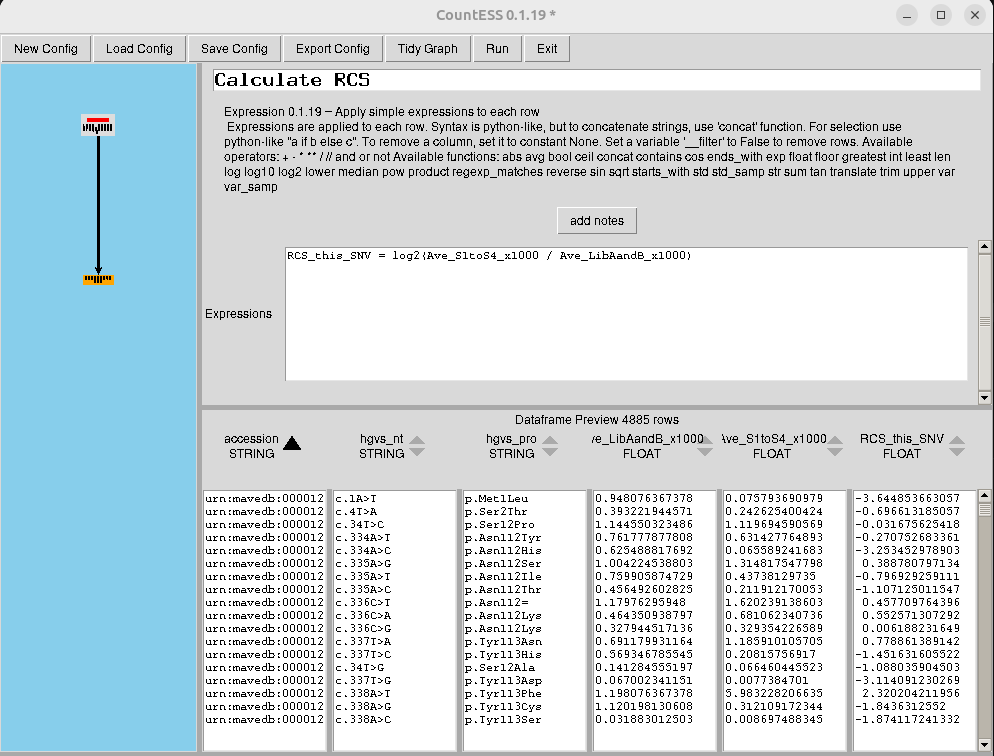
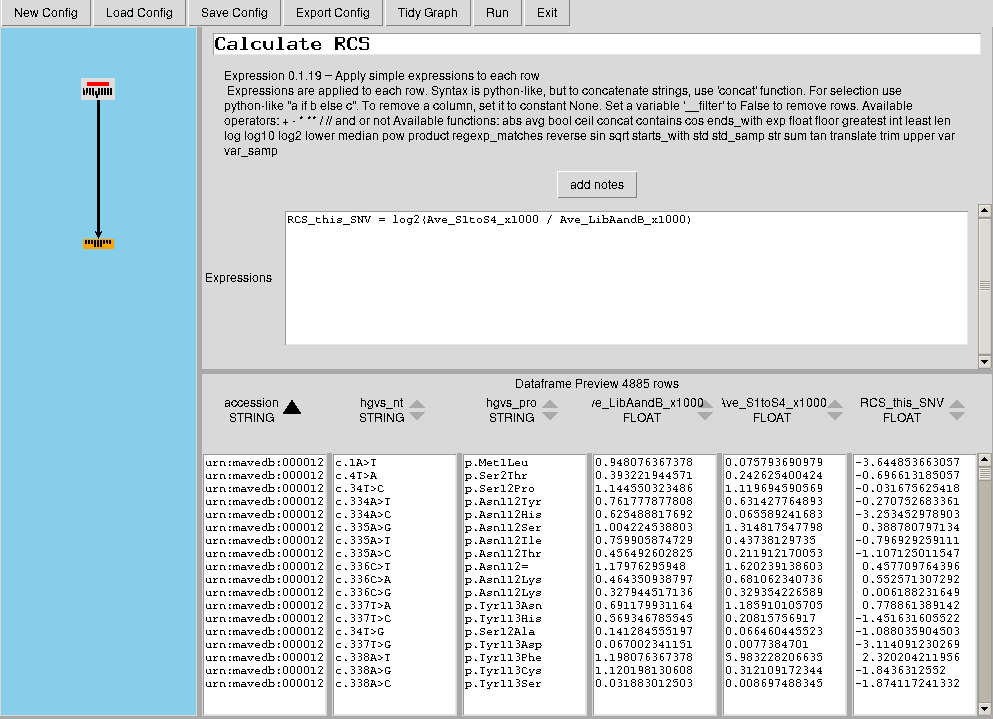
adapt to updated countess tool wrapper, add viz for mavedb comparison

diff --git a/topics/variant-analysis/tutorials/countess-mave-chek2/tutorial.md b/topics/variant-analysis/tutorials/countess-mave-chek2/tutorial.md
@@ -14,7 +14,7 @@ objectives:
 - Use CountESS in Galaxy to calculate RAD53 Complementation Scores for CHEK2 variants.
 - Compare calculated log-ratio scores with scores deposited in MaveDB.
 - Visualize the distribution of calculated CHEK2 RCS values.
-time_estimation: 45M
+time_estimation: 60M
 key_points:
 - MAVE experiments can measure functional effects for thousands of variants in parallel.
 - Variant frequencies before and after selection can be transformed into functional scores using log-ratio calculations.
@@ -29,6 +29,8 @@ contributions:
   authorship:
   - plushz
   - tflowers15
+  - nickzoic
+  - afrubin
 ---
 
 Multiplexed assays of variant effect (MAVEs), including deep mutational scanning (DMS)
@@ -177,30 +179,25 @@ those saved workflows too.
 # Run the CountESS workflow
 
 CountESS is a workflow-like table processing tool. Galaxy will run this saved CountESS
-workflow and connect Galaxy datasets to the input and output nodes.
+workflow, connect Galaxy datasets to the input nodes, and collect files written by
+CountESS save nodes into an output collection.
 
 > <hands-on-title>Calculate CHEK2 RCS scores with CountESS</hands-on-title>
 >
-> 1. Run {% tool [CountESS](toolshed.g2.bx.psu.edu/repos/iuc/countess/countess/0.1.19+galaxy0) %} with the following parameters:
+> 1. Run {% tool [CountESS](toolshed.g2.bx.psu.edu/repos/iuc/countess/countess/0.1.21+galaxy0) %} with the following parameters:
 >
 >    - {% icon param-file %} *"CountESS configuration file"*: `chek2_rcs_countess.ini`
 >
 >    - In *"Input file mapping"*:
 >      - *"CountESS input node name"*: `Load CHEK2 frequencies`
->      - *"CountESS filename parameter"*: `files.0.filename`
 >      - {% icon param-file %} *"Galaxy input dataset"*: `chek2_frequency_summary.csv`
->      - *"Staged filename"*: `chek2_frequency_summary.csv`
->
->    - In *"Output file mapping"*:
->      - *"CountESS save node name"*: `Save CHEK2 RCS scores`
->      - *"CountESS output filename parameter"*: `filename`
->      - *"Output filename"*: `chek2_rcs_scores.csv`
 >
 >    - *"Log level"*: `INFO`
 >
 {: .hands_on}
 
-CountESS produces a collection of output files. Open the output collection and inspect
+CountESS produces a collection of output files from the save-node
+filenames stored in the `.ini` file. Open the output collection and inspect
 `chek2_rcs_scores.csv`.
 
 # Interpret the output
@@ -243,10 +240,10 @@ most variants are close to neutral, depleted, or enriched after selection.
 > 1. Run {% tool [Cut columns from a table](Cut1) %} with the following parameters:
 >
 >    - *"Cut columns"*: `c6`
->    - *"Delimited by"*: `,`
+>    - *"Delimited by"*: `Comma`
 >    - {% icon param-file %} *"From"*: `chek2_rcs_scores.csv` from the CountESS output collection
 >
-> 2. Run {% tool [Histogram with ggplot2](toolshed.g2.bx.psu.edu/repos/iuc/ggplot2_histogram/ggplot2_histogram/3.4.0+galaxy0) %} with the following parameters:
+> 2. Run {% tool [Histogram with ggplot2](toolshed.g2.bx.psu.edu/repos/iuc/ggplot2_histogram/ggplot2_histogram/3.5.1+galaxy1) %} with the following parameters:
 >
 >    - {% icon param-file %} *"Input should have column headers - these will be the columns that are plotted"*: output of **Cut columns from a table** {% icon tool %}
 >    - *"Label for x axis"*: `RAD53 Complementation Score`
@@ -280,15 +277,96 @@ most variants are close to neutral, depleted, or enriched after selection.
 The MaveDB score set used for this tutorial is:
 
 ```text
-urn:mavedb:00001203-a-2
+https://mavedb.org/score-sets/urn:mavedb:00001203-a-2
 ```
 
 The calculated `RCS_this_SNV` values from CountESS should match the `RCS_this_SNV` column
-available from MaveDB for this score set:
+available from MaveDB for this score set. To check this directly, we can import the MaveDB
+score table, join it to the CountESS output by accession, and plot the two RCS columns against
+each other. If the CountESS workflow reproduced the deposited log-ratio values, the points
+should fall on a 1:1 diagonal.
 
-```text
-https://api.mavedb.org/api/v1/score-sets/urn:mavedb:00001203-a-2/scores
-```
+> <hands-on-title>Compare CountESS scores with the MaveDB score table</hands-on-title>
+>
+> 1. Import the MaveDB score table into Galaxy using this link:
+>
+>    ```
+>    https://api.mavedb.org/api/v1/score-sets/urn:mavedb:00001203-a-2/scores
+>    ```
+>
+>    {% snippet faqs/galaxy/datasets_import_via_link.md %}
+>
+> 2. Set the datatype of the imported MaveDB score table to `csv` if Galaxy does not detect it automatically.
+>
+>    {% snippet faqs/galaxy/datasets_change_datatype.md datatype="csv" %}
+>
+> 3. Convert the imported MaveDB score table from CSV to tabular format.
+>
+>    {% snippet faqs/galaxy/datasets_convert_datatype.md conversion="tabular (using csv-to-tabular)" %}
+>
+> 4. Rename the converted dataset to `MaveDB CHEK2 scores tabular`.
+>
+>    {% snippet faqs/galaxy/datasets_rename.md %}
+>
+> 5. Convert `chek2_rcs_scores.csv` from the CountESS output collection from CSV to tabular format.
+>
+>    {% snippet faqs/galaxy/datasets_convert_datatype.md conversion="tabular (using csv-to-tabular)" %}
+>
+> 6. Rename the converted dataset to `CountESS CHEK2 RCS scores tabular`.
+>
+>    {% snippet faqs/galaxy/datasets_rename.md %}
+>
+> 7. Run {% tool [Join two Datasets side by side on a specified field](join1) %} with the following parameters:
+>
+>    - {% icon param-file %} *"Join"*: `MaveDB CHEK2 scores tabular`
+>    - *"using column"*: `Column: 1`
+>    - {% icon param-file %} *"with"*: `CountESS CHEK2 RCS scores tabular`
+>    - *"and column"*: `Column: 1`
+>    - *"Keep lines of first input that do not join with second input"*: `No`
+>    - *"Keep lines of first input that are incomplete"*: `No`
+>    - *"Keep the header lines"*: `Yes`
+>
+> 8. Rename the joined dataset to `MaveDB and CountESS RCS comparison`.
+>
+>    {% snippet faqs/galaxy/datasets_rename.md %}
+>
+> 9. Run {% tool [Scatterplot with ggplot2](toolshed.g2.bx.psu.edu/repos/iuc/ggplot2_point/ggplot2_point/3.5.1+galaxy2) %} with the following parameters:
+>
+>    - {% icon param-file %} *"Input tabular dataset"*: `MaveDB and CountESS RCS comparison`
+>    - *"Column to plot on x-axis"*: `c8: RCS_this_SNV`
+>    - *"Column to plot on y-axis"*: `c30: RCS_this_SNV`
+>    - *"Plot title"*: `MaveDB and CountESS CHEK2 RCS values`
+>    - *"Label for x axis"*: `MaveDB RCS_this_SNV`
+>    - *"Label for y axis"*: `CountESS RCS_this_SNV`
+>    - In *"Advanced Options"*:
+>      - *"Data point options"*: `User defined point options`
+>        - *"relative size of points"*: `1.0`
+>
+{: .hands_on}
+
+In the joined table, column 8 is the `RCS_this_SNV` value from MaveDB. Column 30 is the
+`RCS_this_SNV` value from the CountESS output, because the six CountESS output columns are
+added after the 24 MaveDB score-table columns.
+
+> <question-title></question-title>
+>
+> 1. What does the scatterplot show about the relationship between the MaveDB and CountESS
+>    RCS values?
+>
+> > <solution-title></solution-title>
+> >
+> > The points should lie on a 1:1 diagonal, showing that the `RCS_this_SNV` values
+> > calculated by the CountESS workflow match the `RCS_this_SNV` values deposited in
+> > MaveDB for the same accessions. The plot shows this expected pattern: the
+> > CountESS score on the y-axis is essentially the same as the MaveDB score on the
+> > x-axis for each variant. This confirms that the Galaxy CountESS workflow reproduced
+> > the deposited log-ratio values.
+> >
+> > ![Scatterplot comparing MaveDB and CountESS CHEK2 RCS values. The points fall on a diagonal, showing that the CountESS-calculated RCS values match the MaveDB RCS values.](../../images/countess-mave-chek2/scatterplot_mavedb_vs_countess_rcs_values.png "MaveDB and CountESS CHEK2 RCS values.")
+> >
+> {: .solution}
+>
+{: .question}
 
 MaveDB also contains a final `score` column for this record. That final score is not the
 direct log-ratio calculated in this tutorial. It is derived downstream from the RCS values
